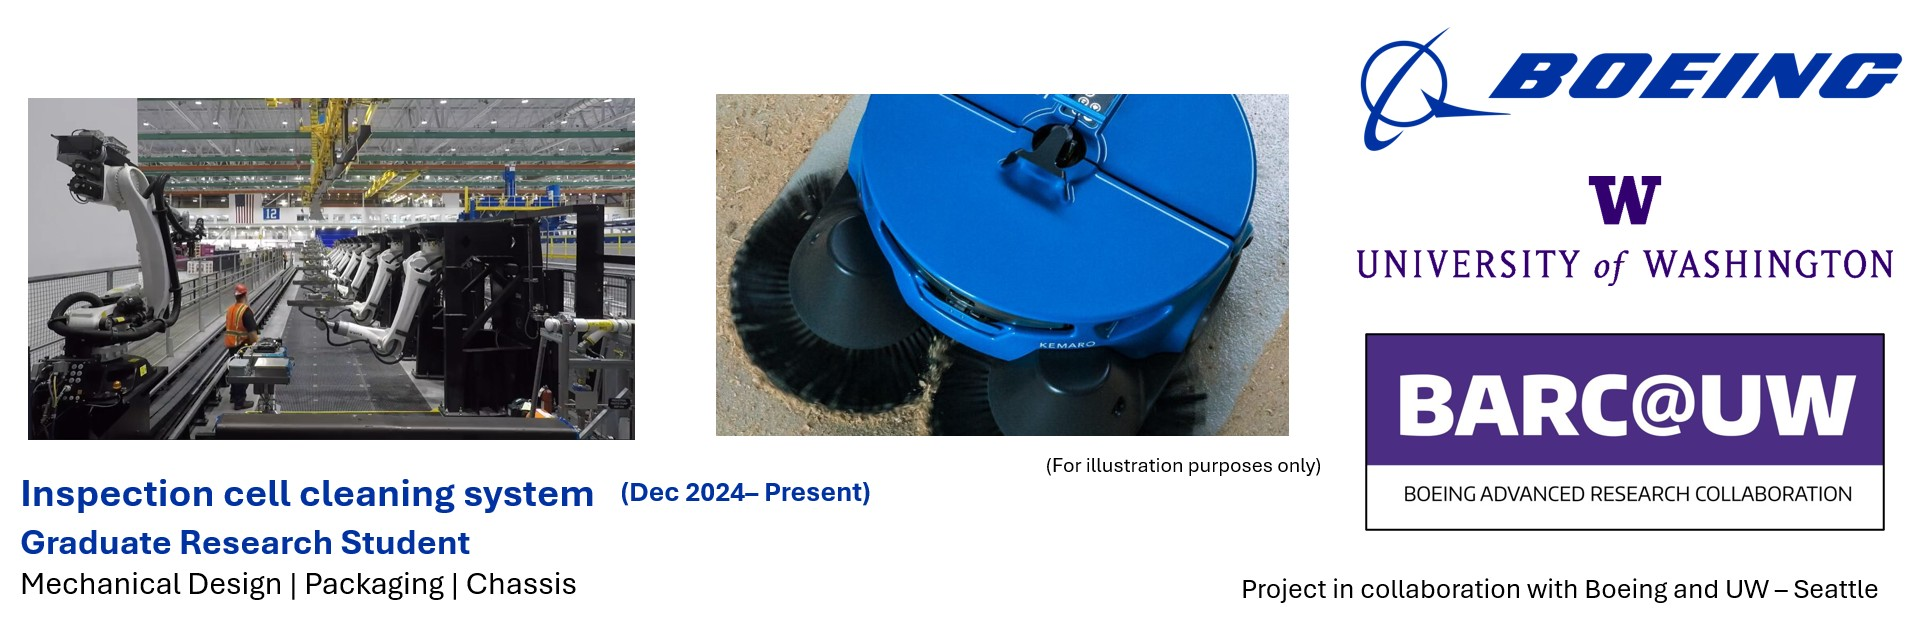
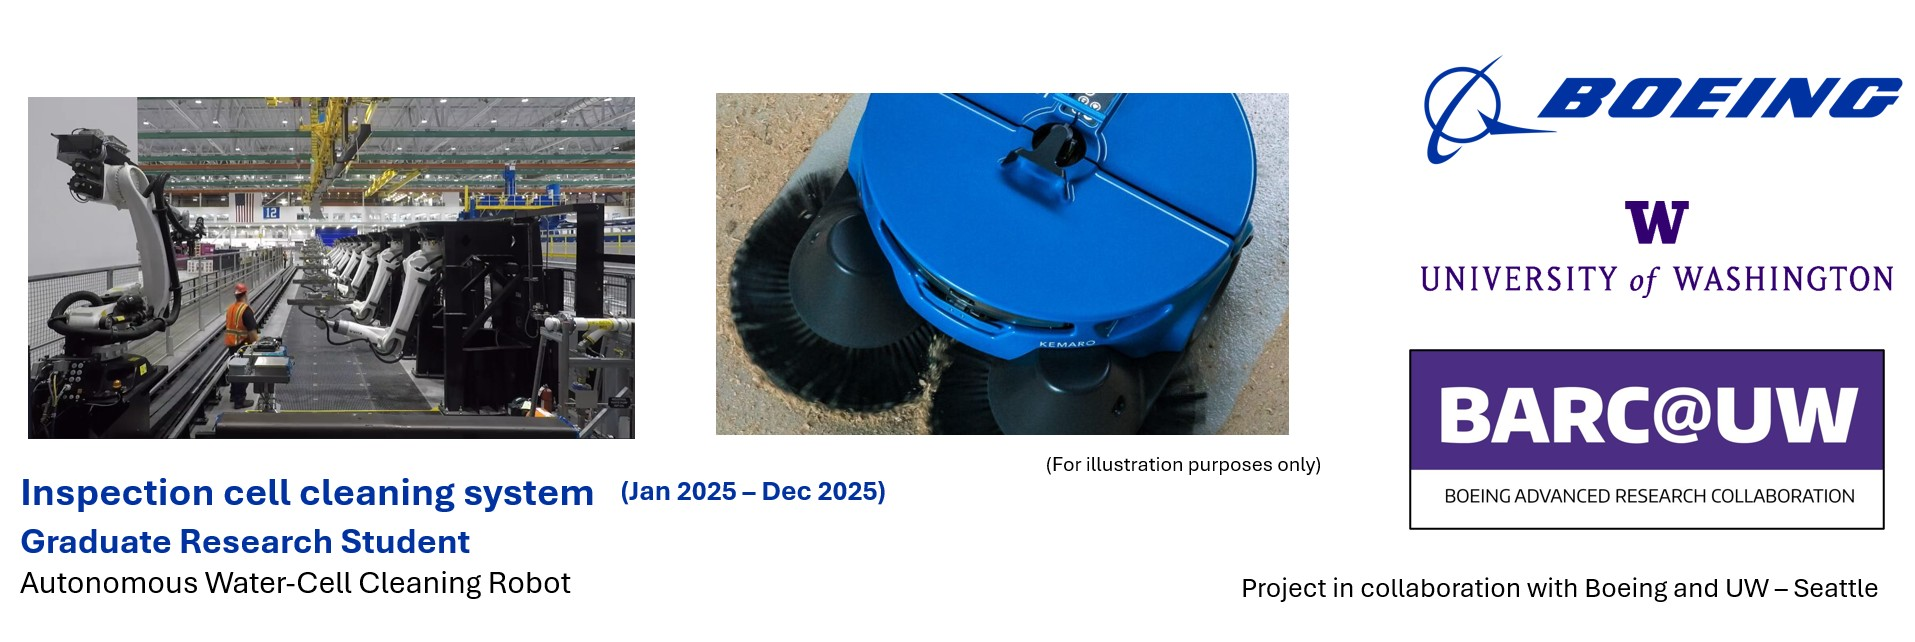
updates

diff --git a/_projects/uw-barc/index.md b/_projects/uw-barc/index.md
@@ -2,15 +2,15 @@
 order: 1
 layout: post
 title: Boeing Advanced Research Collaboration @ UW
-description: Leading mechanical design for an autonomous cleaning robot for non-destructive inspection water tank cells
+description: Led mechanical architecture and subsystem integration for an autonomous cleaning robot for NDI water tank cells.
 skills:
-    - Mechanical Design
+    - Mechanical architecture
     - CAD Modeling (Solidworks)
     - System Integration
     - Cross-functional Collaboration
     - Material Selection
-    - IP65 Design
-    - Actuator Design
+    - IP-Rated Enclosure Design
+    - Actuator & Drivetrain Integration
 
 main-image: /projects/uw-barc/uw-barc.jpg
 ---
@@ -19,35 +19,26 @@ main-image: /projects/uw-barc/uw-barc.jpg
 
 ## Overview
 
-As part of the Boeing Advanced Research Collaboration (BARC), I lead the mechanical design for an autonomous cleaning robot for non-destructive inspection (NDI) water cells. These inspection tanks currently require periodic manual cleaning that disrupts operations for 2-3 days. Our goal is to develop a robotic system capable of fully autonomous, efficient cleaning, reducing maintenance frequency and improving overall system availability.
+As part of the Boeing Advanced Research Collaboration (BARC), I led the mechanical architecture and subsystem integration of an autonomous cleaning robot for non-destructive inspection (NDI) water cells. These inspection tanks currently require 2–3 days of manual cleaning downtime. Our objective is to develop a compact, fully autonomous robotic system that improves operational availability and reduces maintenance disruption.
 
-I am responsible for the mechanical design of the robot's packaging, chassis, and cleaning subsystem. This includes developing a modular, low-profile frame that fits within tight tank geometries, integrating mecanum wheel drive for omnidirectional motion, and designing a combined rotating brush + squeegee system to effectively remove fine debris from wet surfaces. The system must balance compactness, durability, and manufacturability while supporting the project's autonomous operational goals.
+I owned the robot’s mechanical architecture, including chassis packaging, drivetrain integration, and cleaning subsystem design. The system operates within tight tank geometries and balances compactness, durability, manufacturability, and environmental sealing.
 
 ## Key Contributions
 
-### Mechanical Design & System Integration
+### Mechanical Architecture & Integration
 
-- Led mechanical design of compact robot chassis housing drivetrain, power, and cleaning modules
+- Integrated off-the-shelf components into a cohesive robotic system, building full CAD assemblies to validate packaging, alignment, and serviceability.
 
-- Engineered a modular, low-profile frame with integrated mecanum wheel drive for omnidirectional motion in tight tank geometries
+- Designed a modular, low-profile chassis integrating drivetrain, power systems, and a combined rotating brush + squeegee cleaning mechanism.
 
-<!-- - Designed a combined rotating brush-and-squeegee mechanism for simultaneous debris agitation and collection -->
+- Implemented mecanum drive architecture to enable omnidirectional maneuvering in constrained tank environments.
 
-- Created comprehensive CAD assemblies and fabrication-ready technical drawings
+- Generated fabrication-ready drawings and validated structural integrity through hand calculations and ANSYS FEA.
 
-- Ensured IP65 compliance by selecting materials and components resistant to water and chemicals
+- Designed for IP-rated environmental protection through material selection and sealing strategy.
 
-- Validated fit, clearance, and subsystem integration through mechanical simulations and layout reviews
+- Iterated through multiple prototype builds, refining layout and component trade-offs based on performance testing.
 
-
-### Cross-functional Collaboration
-
-- Collaborated closely with electronics, controls, software, perception, and power teams for seamless system integration
-
-- Supported material and component selection to meet environmental durability requirements
-
-- Led cross-functional design reviews and maintained thorough technical documentation throughout development
-    
 <!-- ## Images
 {% include image-gallery.html images="uw-barc.jpg" height="400" %} -->
 
